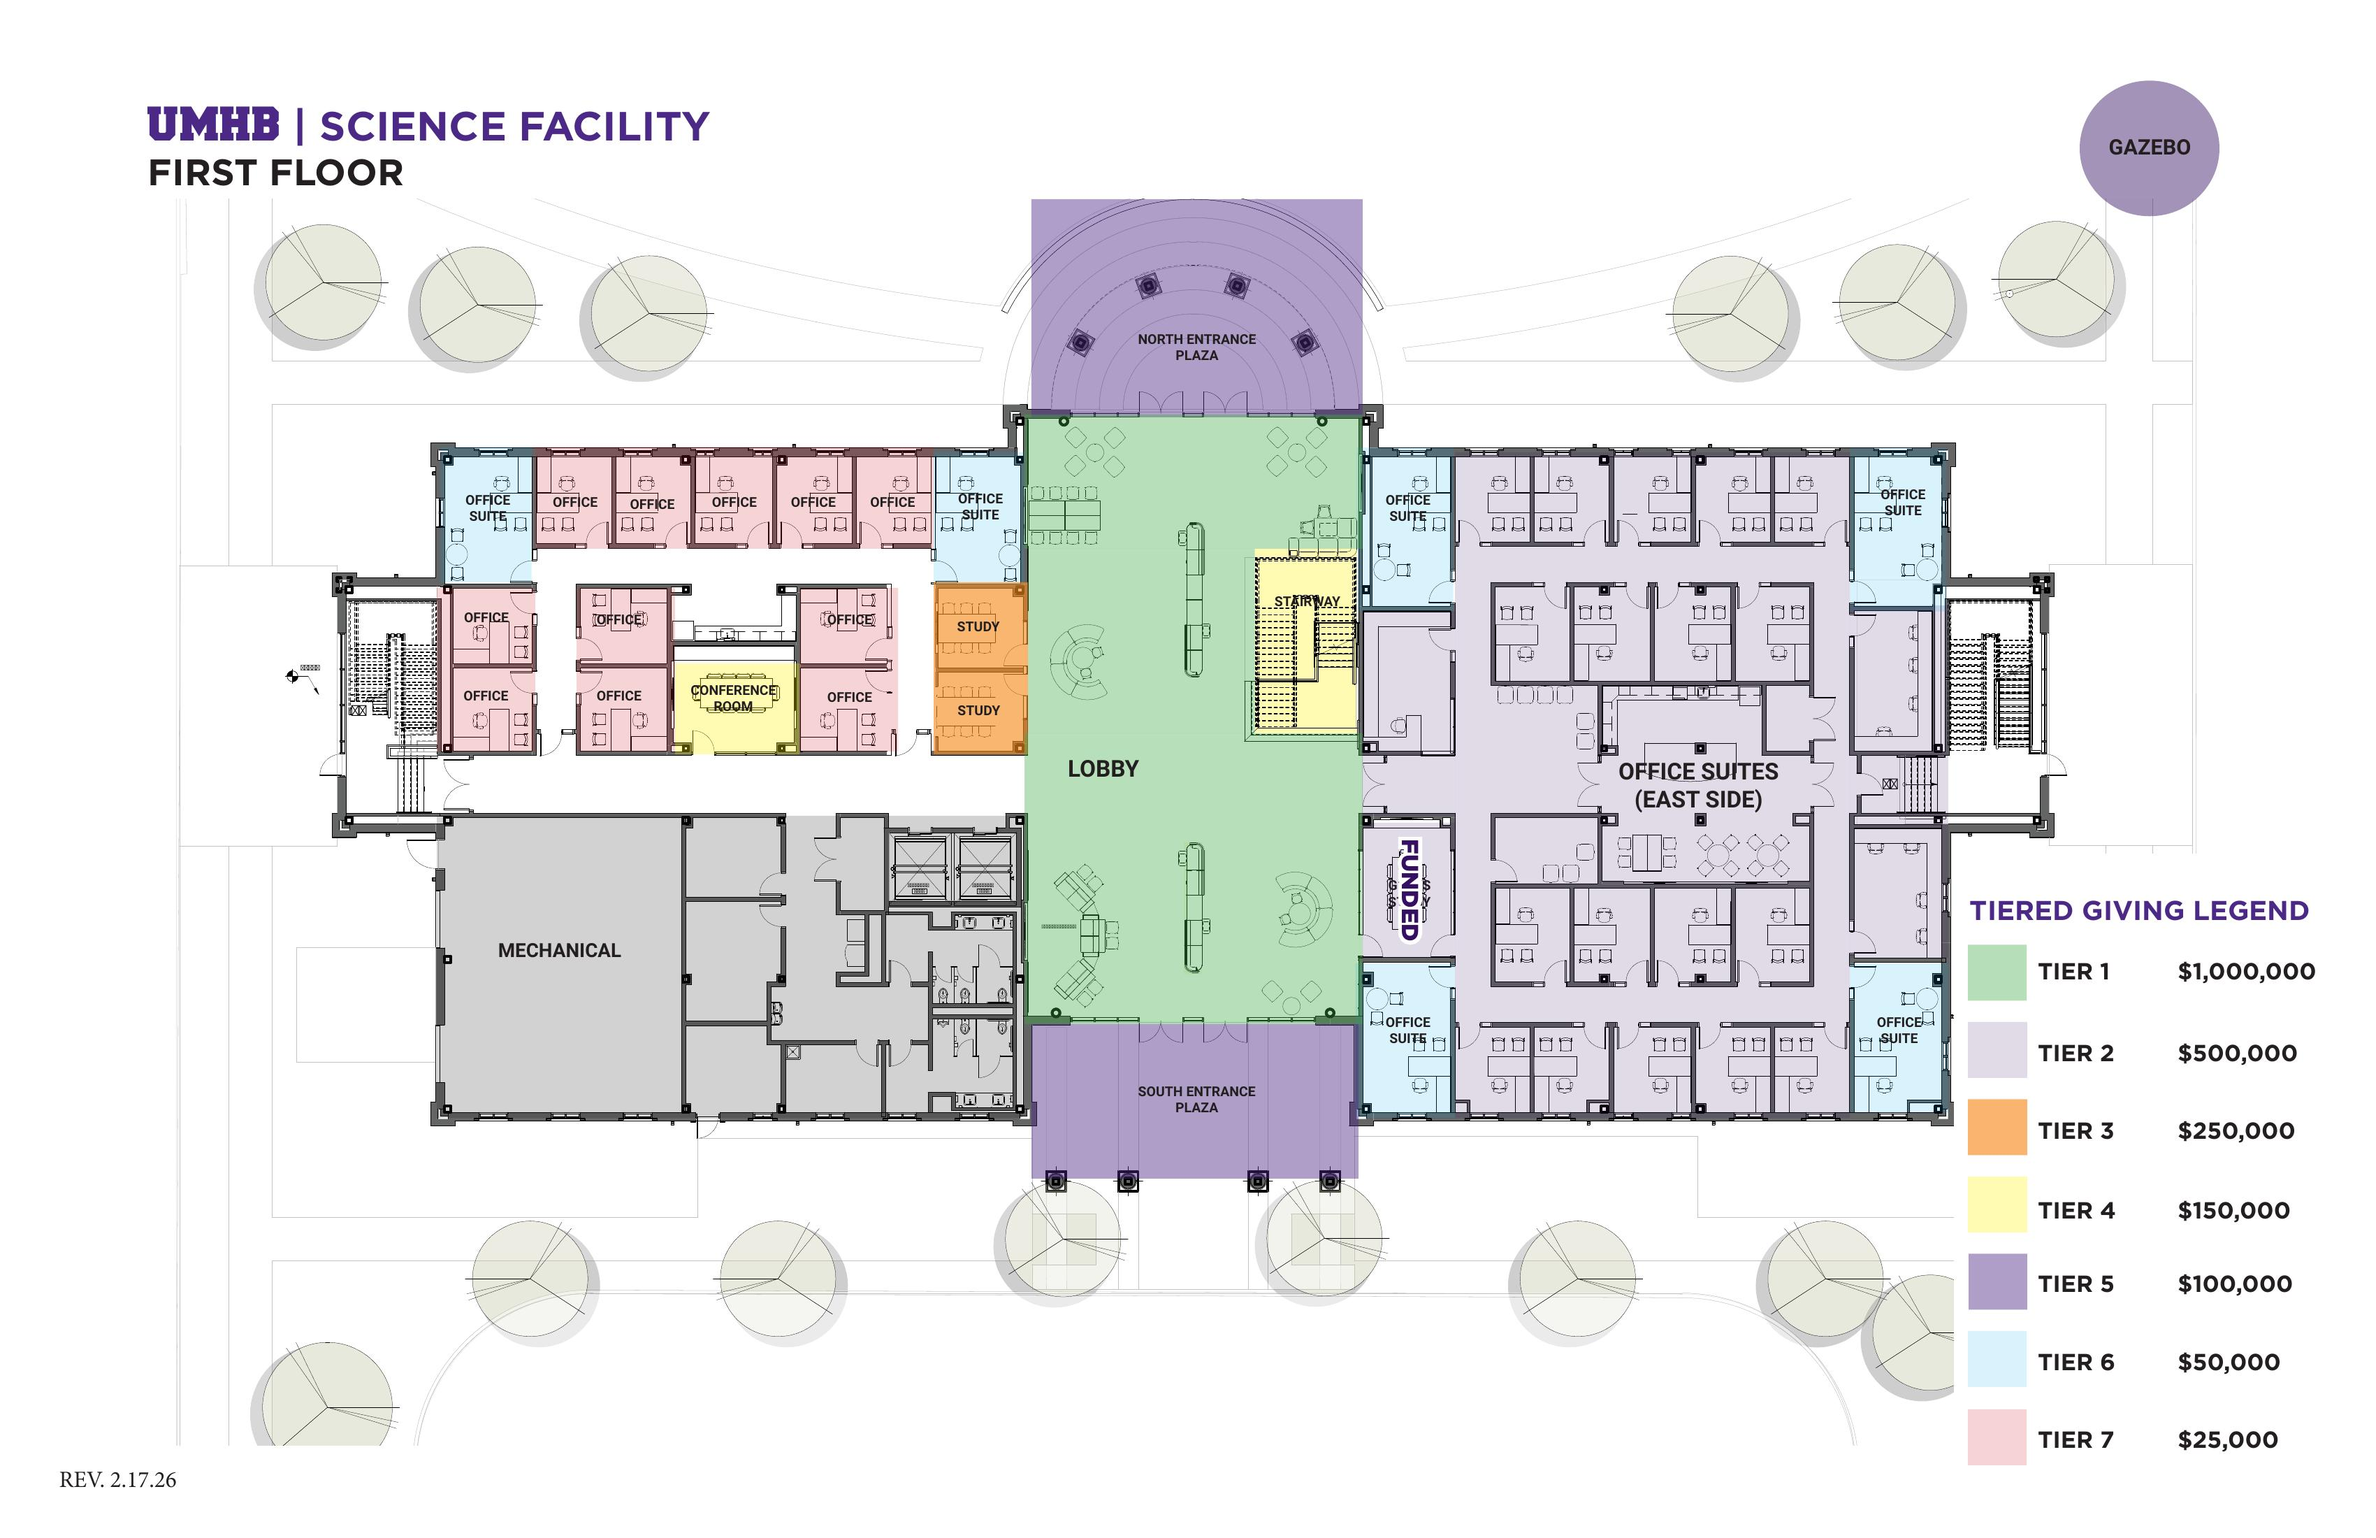
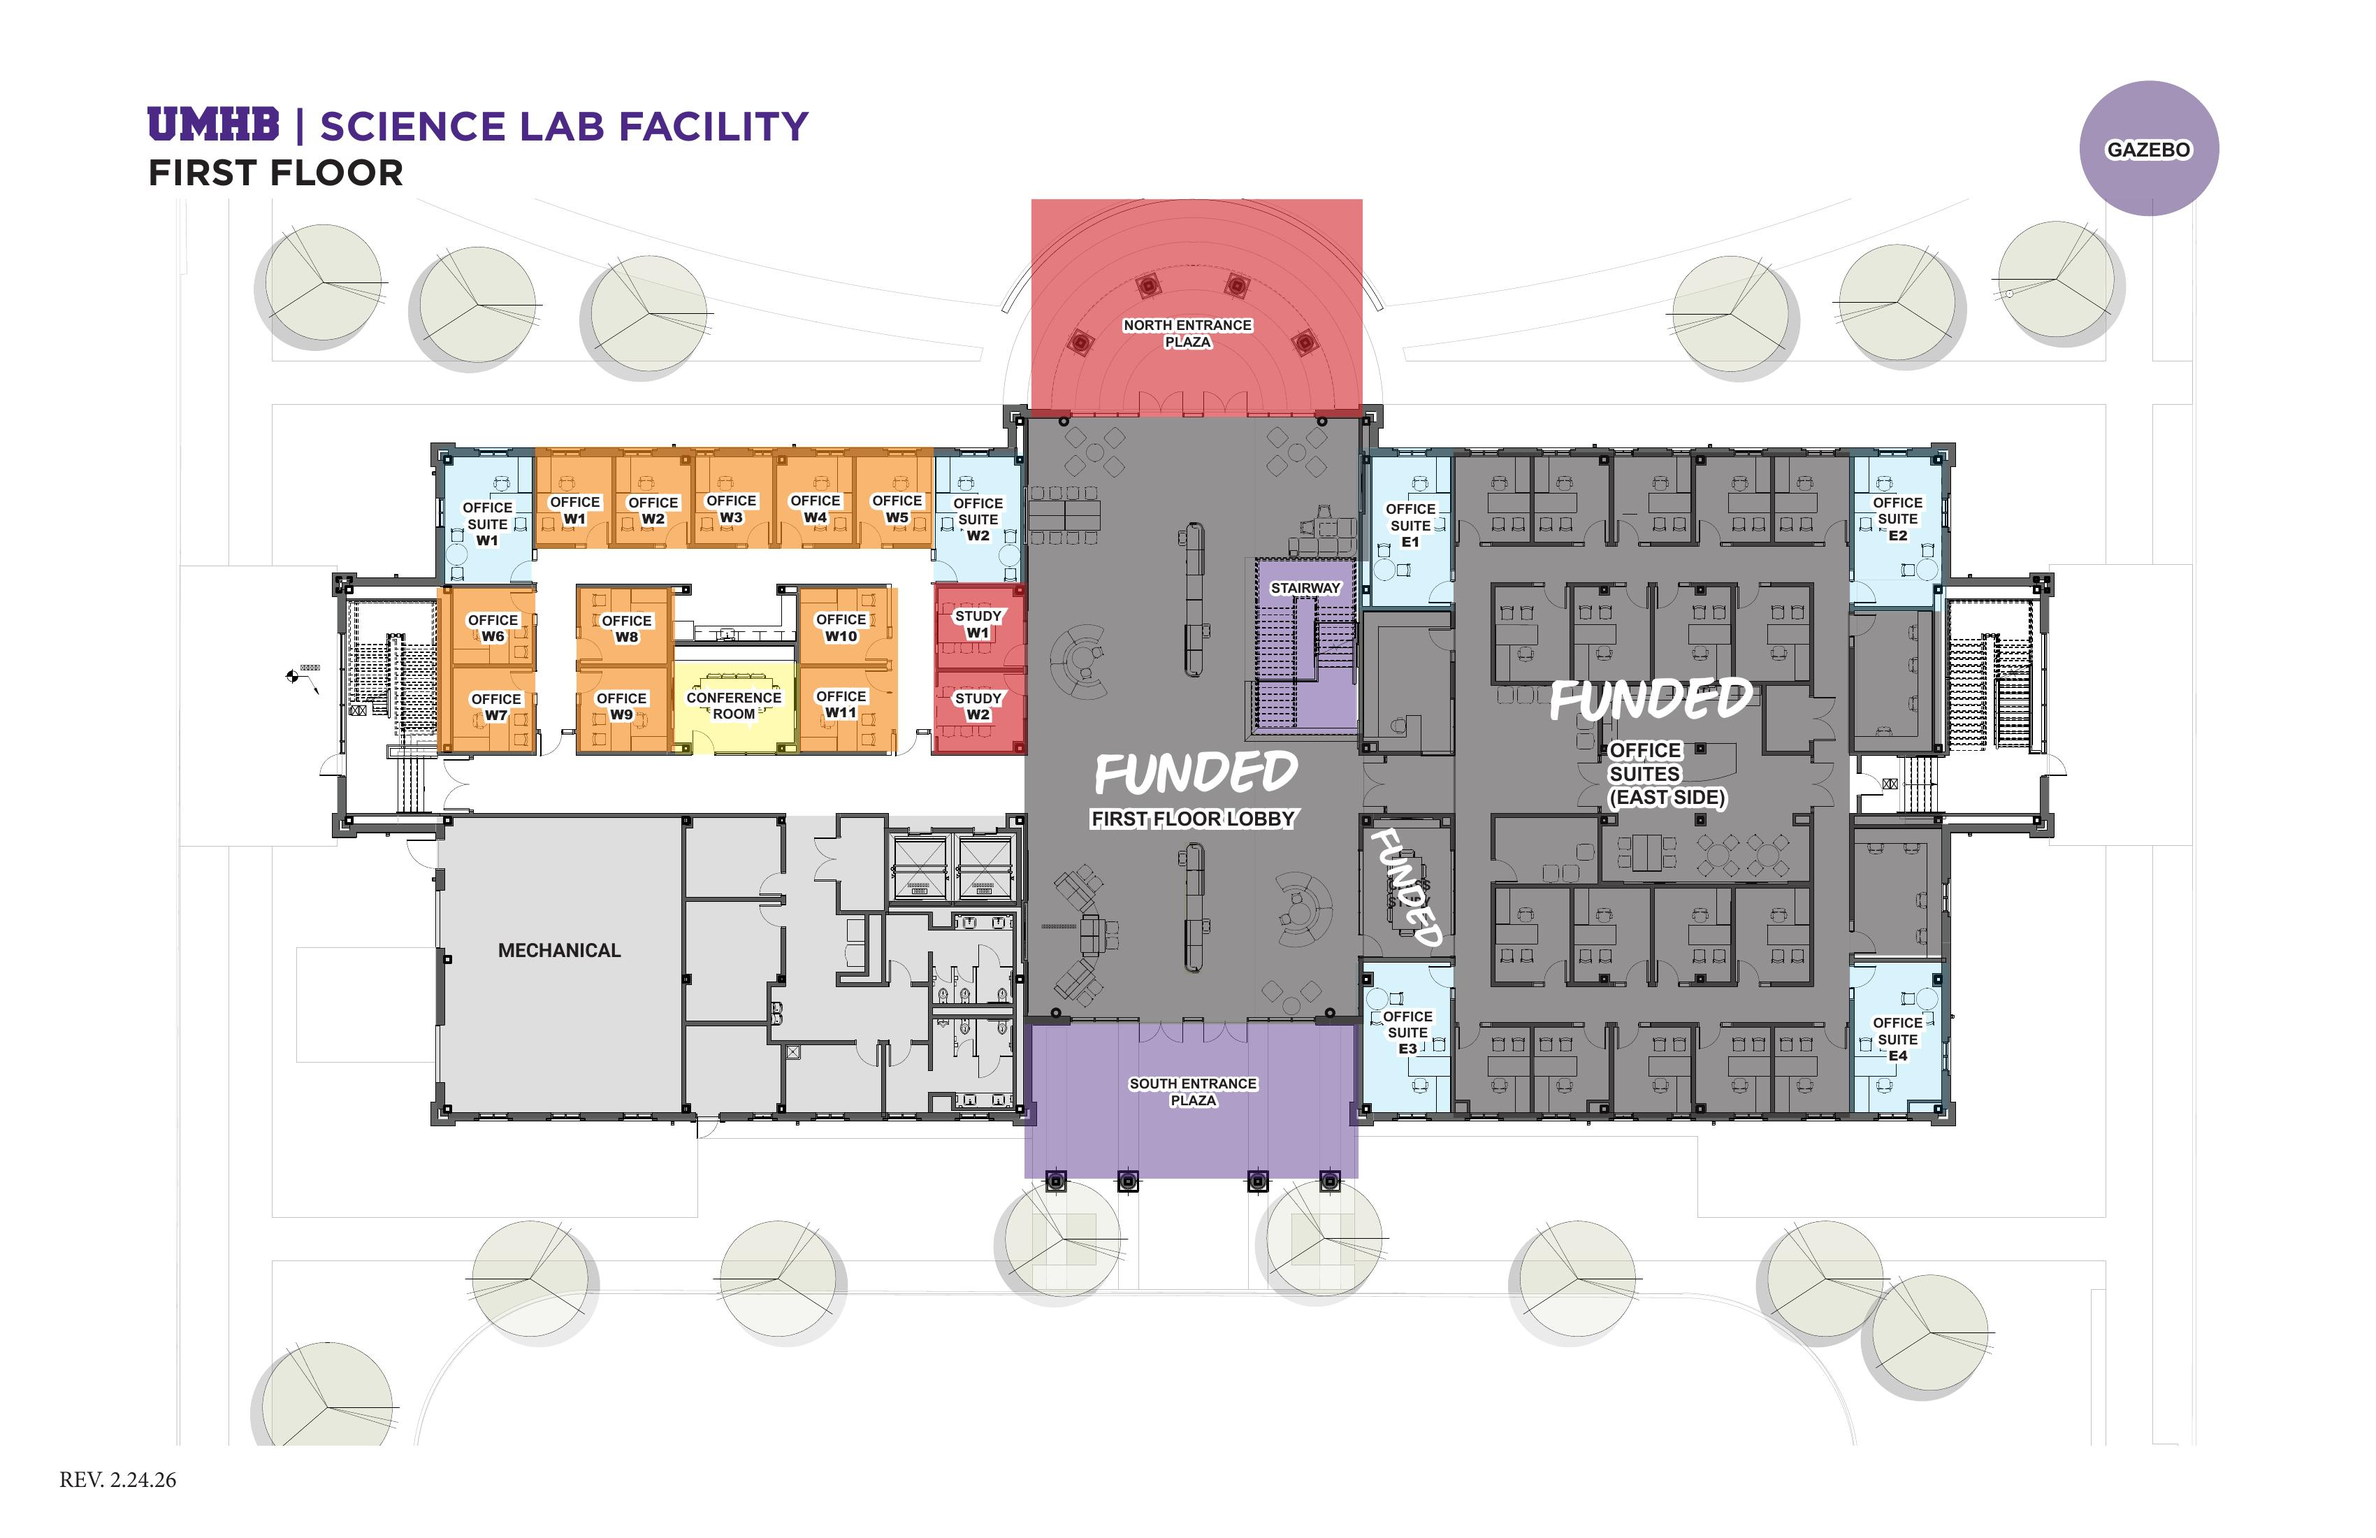
feat: add updated naming floor maps with collapsible opportunity list
- Replaced floor 1-3 images with REV 2.24.26 maps (no tiered giving legend)
- Floor map images now display above naming opportunities for each tab
- Naming cards replaced with clean collapsible table (hidden by default)
- Toggle button below floor map to view/hide naming opportunities & amounts

diff --git a/src/components/NamingOpportunities.tsx b/src/components/NamingOpportunities.tsx
@@ -1,5 +1,6 @@
 "use client";
 
+import Image from "next/image";
 import { useState } from "react";
 
 interface NamingItem {
@@ -8,7 +9,6 @@ interface NamingItem {
   floor: number;
   category: "building" | "lab" | "office" | "commons" | "other";
   status: "available" | "reserved" | "named";
-  donor?: string;
 }
 
 const namingData: NamingItem[] = [
@@ -66,31 +66,9 @@ const namingData: NamingItem[] = [
 
 const floorLabels = ["First Floor", "Second Floor", "Third Floor", "Outside"];
 
-const categoryColors: Record<string, string> = {
-  building: "bg-[#3D1A78] text-white",
-  lab: "bg-green-50 border-green-200 text-green-800",
-  office: "bg-pink-50 border-pink-200 text-pink-800",
-  commons: "bg-amber-50 border-amber-200 text-amber-800",
-  other: "bg-gray-50 border-gray-200 text-gray-800",
-};
-
-const categoryLabels: Record<string, string> = {
-  building: "Building",
-  lab: "Laboratory",
-  office: "Office Suite",
-  commons: "Commons / Gathering",
-  other: "Other",
-};
-
-const statusBadge: Record<string, { className: string; label: string }> = {
-  available: { className: "bg-green-100 text-green-800", label: "Available" },
-  reserved: { className: "bg-amber-100 text-amber-800", label: "Funded (Hold)" },
-  named: { className: "bg-[#3D1A78] text-white", label: "Funded" },
-};
-
 export default function NamingOpportunities() {
   const [activeFloor, setActiveFloor] = useState(0);
-  const [selectedItem, setSelectedItem] = useState<NamingItem | null>(null);
+  const [showList, setShowList] = useState(false);
 
   const floorValues = [1, 2, 3, 4];
   const filteredItems = namingData.filter((item) => item.floor === floorValues[activeFloor]);
@@ -120,7 +98,7 @@ export default function NamingOpportunities() {
               key={label}
               onClick={() => {
                 setActiveFloor(i);
-                setSelectedItem(null);
+                setShowList(false);
               }}
               className={`px-5 py-2.5 font-[var(--font-heading)] text-sm tracking-[0.1em] uppercase font-semibold transition-all duration-300 rounded-sm ${
                 activeFloor === i
@@ -133,75 +111,101 @@ export default function NamingOpportunities() {
           ))}
         </div>
 
-        {/* Naming cards */}
-        <div className="grid sm:grid-cols-2 lg:grid-cols-3 gap-4 mb-10">
-          {filteredItems.map((item, i) => {
-            const badge = statusBadge[item.status];
-            return (
-              <button
-                key={`${item.name}-${i}`}
-                onClick={() => setSelectedItem(item)}
-                className={`text-left p-5 rounded-sm border transition-all duration-200 hover:shadow-md ${
-                  item.status === "available"
-                    ? "bg-white border-gray-200 hover:border-[#FEC324]"
-                    : item.status === "reserved"
-                    ? "bg-gray-50 border-gray-200 opacity-75"
-                    : "bg-gray-50 border-gray-200 opacity-60"
-                } ${selectedItem?.name === item.name ? "ring-2 ring-[#FEC324]" : ""}`}
-              >
-                <div className="flex justify-between items-start mb-3">
-                  <span
-                    className={`inline-block px-2 py-0.5 text-xs font-semibold rounded ${
-                      categoryColors[item.category]
-                    }`}
-                  >
-                    {categoryLabels[item.category]}
-                  </span>
-                  <span className={`inline-block px-2 py-0.5 text-xs font-semibold rounded ${badge.className}`}>
-                    {badge.label}
-                  </span>
-                </div>
-                <h3 className="font-[var(--font-heading)] text-[#3D1A78] font-bold text-base mb-1">{item.name}</h3>
-                <p className="font-[var(--font-heading)] text-[#FEC324] font-bold text-lg">{item.price}</p>
-                {item.donor && (
-                  <p className="font-[var(--font-body)] text-gray-500 text-sm mt-1 italic">Named by {item.donor}</p>
-                )}
-              </button>
-            );
-          })}
-        </div>
-
-        {/* Detail panel */}
-        {selectedItem && (
-          <div className="bg-white rounded-sm shadow-lg p-8 border border-gray-200 max-w-2xl mx-auto">
-            <div className="flex justify-between items-start mb-4">
-              <div>
-                <h3 className="font-[var(--font-heading)] text-[#3D1A78] font-bold text-xl mb-1">{selectedItem.name}</h3>
-                <p className="font-[var(--font-heading)] text-[#FEC324] font-bold text-2xl">{selectedItem.price}</p>
-              </div>
-              <button
-                onClick={() => setSelectedItem(null)}
-                className="text-gray-400 hover:text-gray-600 transition-colors"
-              >
-                <svg viewBox="0 0 24 24" fill="none" stroke="currentColor" strokeWidth="2" className="w-6 h-6">
-                  <path d="M6 18L18 6M6 6l12 12" />
-                </svg>
-              </button>
-            </div>
-            <p className="font-[var(--font-body)] text-gray-600 leading-relaxed mb-6">
-              Your investment in the {selectedItem.name} will create a lasting tribute while advancing science education at UMHB. This space will serve thousands of students for decades to come, equipping them to pursue truth, serve others, and lead with integrity.
-            </p>
-            <a
-              href="mailto:tglaske@umhb.edu?subject=Naming%20Inquiry%20-%20UMHB%20Science%20Facility&body=I%20am%20interested%20in%20the%20naming%20opportunity%20for%20the%20following%20space%3A%0A%0ASpace%3A%20${encodeURIComponent(selectedItem.name)}%0ALevel%3A%20${encodeURIComponent(selectedItem.price)}"
-              className="inline-flex items-center justify-center px-6 py-3 bg-[#3D1A78] text-white font-[var(--font-heading)] font-semibold tracking-wide rounded-sm hover:bg-[#2D1259] transition-colors duration-300"
-            >
-              Inquire at tglaske@umhb.edu
-            </a>
+        {/* Floor map image */}
+        {[1, 2, 3].includes(floorValues[activeFloor]) && (
+          <div className="relative w-full rounded-sm overflow-hidden shadow-lg bg-white">
+            <Image
+              src={`/images/naming-floors/floor-${floorValues[activeFloor]}.jpg`}
+              alt={`${floorLabels[activeFloor]} naming opportunity map`}
+              width={1400}
+              height={900}
+              className="w-full h-auto"
+            />
           </div>
         )}
 
+        {/* Toggle button for naming list */}
+        <div className="flex justify-center mt-6 mb-4">
+          <button
+            onClick={() => setShowList(!showList)}
+            className="inline-flex items-center gap-2 px-6 py-3 bg-white border border-gray-200 rounded-sm font-[var(--font-heading)] text-[#3D1A78] text-sm tracking-[0.1em] uppercase font-semibold hover:bg-gray-50 hover:border-[#FEC324] transition-all duration-300 shadow-sm"
+          >
+            {showList ? "Hide" : "View"} Naming Opportunities & Amounts
+            <svg
+              viewBox="0 0 20 20"
+              fill="currentColor"
+              className={`w-4 h-4 transition-transform duration-300 ${showList ? "rotate-180" : ""}`}
+            >
+              <path
+                fillRule="evenodd"
+                d="M5.23 7.21a.75.75 0 0 1 1.06.02L10 11.168l3.71-3.938a.75.75 0 1 1 1.08 1.04l-4.25 4.5a.75.75 0 0 1-1.08 0l-4.25-4.5a.75.75 0 0 1 .02-1.06Z"
+                clipRule="evenodd"
+              />
+            </svg>
+          </button>
+        </div>
+
+        {/* Collapsible naming list */}
+        <div
+          className={`overflow-hidden transition-all duration-500 ease-in-out ${
+            showList ? "max-h-[2000px] opacity-100" : "max-h-0 opacity-0"
+          }`}
+        >
+          <div className="bg-white rounded-sm shadow-lg border border-gray-200 overflow-hidden mt-2 mb-10">
+            <table className="w-full">
+              <thead>
+                <tr className="bg-[#3D1A78] text-white">
+                  <th className="text-left px-6 py-3 font-[var(--font-heading)] text-sm tracking-[0.1em] uppercase">Space</th>
+                  <th className="text-right px-6 py-3 font-[var(--font-heading)] text-sm tracking-[0.1em] uppercase">Amount</th>
+                  <th className="text-right px-6 py-3 font-[var(--font-heading)] text-sm tracking-[0.1em] uppercase">Status</th>
+                </tr>
+              </thead>
+              <tbody>
+                {filteredItems.map((item, i) => (
+                  <tr
+                    key={`${item.name}-${i}`}
+                    className={`border-b border-gray-100 ${
+                      item.status === "named" ? "bg-gray-50 text-gray-400" : "hover:bg-[#FAF8F5]"
+                    }`}
+                  >
+                    <td className="px-6 py-3">
+                      <span className={`font-[var(--font-body)] text-sm ${item.status === "named" ? "text-gray-400" : "text-gray-800"}`}>
+                        {item.name}
+                      </span>
+                    </td>
+                    <td className="px-6 py-3 text-right">
+                      <span className={`font-[var(--font-heading)] font-bold text-sm ${item.status === "named" ? "text-gray-400" : "text-[#3D1A78]"}`}>
+                        {item.price}
+                      </span>
+                    </td>
+                    <td className="px-6 py-3 text-right">
+                      <span
+                        className={`inline-block px-2.5 py-1 text-xs font-semibold rounded ${
+                          item.status === "available"
+                            ? "bg-green-100 text-green-800"
+                            : "bg-[#3D1A78] text-white"
+                        }`}
+                      >
+                        {item.status === "available" ? "Available" : "Funded"}
+                      </span>
+                    </td>
+                  </tr>
+                ))}
+              </tbody>
+            </table>
+            <div className="px-6 py-4 bg-gray-50 border-t border-gray-200 text-center">
+              <a
+                href="mailto:tglaske@umhb.edu?subject=Naming%20Inquiry%20-%20UMHB%20Science%20Facility"
+                className="inline-flex items-center justify-center px-6 py-3 bg-[#3D1A78] text-white font-[var(--font-heading)] font-semibold tracking-wide text-sm rounded-sm hover:bg-[#2D1259] transition-colors duration-300"
+              >
+                Inquire at tglaske@umhb.edu
+              </a>
+            </div>
+          </div>
+        </div>
+
         {/* Challenge grant callout */}
-        <div className="mt-16 bg-[#3D1A78] rounded-sm p-8 md:p-12 text-center">
+        <div className="mt-10 bg-[#3D1A78] rounded-sm p-8 md:p-12 text-center">
           <h3 className="font-[var(--font-heading)] text-[#FEC324] text-xl md:text-2xl font-bold tracking-wide uppercase mb-4">
             $4 Million Challenge Grant
           </h3>
